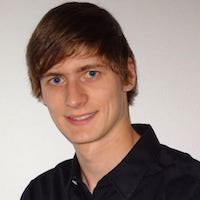
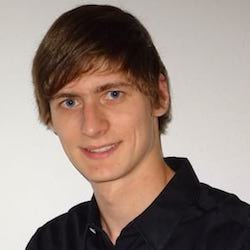
Add woff2 for font-awesome + update profile pic

diff --git a/dist/styles/style.min.css b/dist/styles/style.min.css
@@ -1,1 +1,1 @@
-*{box-sizing:border-box}blockquote,caption,dd,dl,fieldset,form,h1,h2,h3,h4,h5,h6,hr,legend,ol,p,pre,table,td,th,ul{margin:0;padding:0}body{line-height:1.8;color:#fff;font-size:18px;font-family:'Open Sans',sans-serif,Helvetica,sans-serif}h2{font-size:32px}h3{font-size:24px}a{color:#fff;text-decoration:none}a:hover{color:#fff;text-decoration:none}.resume-navbar{border-width:0}.section{width:100%;padding:50px 0;position:relative}.section .section__content{width:100%;margin:50px auto 0 auto}@media (min-width:768px){.section .section__content{width:75%}}@media (min-width:992px){.section .section__content{width:50%}}.section .section__subtitle{margin:30px 0}.section .section__subtitle:first-child{margin-top:0}@media (min-width:768px){.fullscreen-section-sm{height:100vh}}.container-center-total{position:absolute;left:50%;margin-left:-150px;margin-top:-100px;width:300px;height:200px;text-align:center;top:50%}@media (min-width:768px){.container-center-total{position:absolute;left:50%;margin-left:-250px;margin-top:-50px;width:500px;height:100px;text-align:center}}@media (min-width:992px){.container-center-total{position:absolute;left:50%;margin-left:-350px;margin-top:-75px;width:700px;height:150px;text-align:center}}.next-section{position:absolute;left:50%;margin-left:-150px;margin-top:-40px;width:300px;height:80px;text-align:center;bottom:20px;height:auto}.next-section .next-section__link-text{line-height:1;font-size:18px}.resume-item{margin-bottom:0}@media (min-width:768px){.resume-item{margin-bottom:50px}}.resume-item:last-child{margin-bottom:0}.resume-item .resume-item__header{font-size:20px}.resume-item .resume-item__icon{padding-right:5px}.resume-item .resume-item__column{margin-bottom:20px}@media (min-width:768px){.resume-item .resume-item__column{margin-bottom:0}}.resume-item .resume-item__inner-row{margin-top:20px}.focus-list{margin-left:20px;list-style-type:square}.intro-section{height:100vh;background-color:#6ed3cf}#headline{font-size:36px}@media (min-width:768px){#headline{font-size:48px}}@media (min-width:992px){#headline{font-size:72px}}.about-me-section{background-color:#9068be}@media (min-width:768px){.about-me-section{padding-bottom:0;padding-top:0;display:-webkit-flex;display:flex;-webkit-align-items:center;align-items:center;-webkit-justify-content:center;justify-content:center}}.section-intro-text{margin-bottom:50px}.about-me-list{list-style:none;line-height:2;text-align:center;margin-top:50px}@media (min-width:768px){.about-me-list{margin:0}}.about-me-list .about-me-list__account-item{display:inline;font-size:1.3em;padding-right:5px}.profile-picture{border-radius:50%;width:200px;height:200px;border:10px solid #d3d3d3}.education-section{background-color:#22264b}.carreer-section{background-color:#667467}.abilities-section{background-color:#3fb0ac}.projects-section{background-color:#856046}.project-figure{background:#1d2120;position:relative}.project-figure:hover .project-figure__image{opacity:.2}.project-figure:hover .project-figure__caption-header{opacity:1}.project-figure .project-figure__image{max-width:100%;height:auto;-webkit-transition:opacity .5s;transition:opacity .5s}.project-figure .project-figure__caption{position:absolute;top:0;left:0;width:100%;height:100%;padding:10px 10px}.project-figure .project-figure__caption-header{display:flex;height:100%;align-items:center;justify-content:center;opacity:0;-webkit-transition:opacity .5s;transition:opacity .5s}.success-list{list-style-type:none}.spare-time-section{background-color:#e62739}.resume-footer{background-color:#5a5c51;padding:10px 0}.resume-footer .resume-footer__container{width:100%;margin:0 auto}@media (min-width:768px){.resume-footer .resume-footer__container{width:75%}}@media (min-width:992px){.resume-footer .resume-footer__container{width:50%}}.resume-footer-accounts{list-style-type:none;text-align:right}.resume-footer-accounts .resume-footer-accounts__item{display:inline-block;padding-right:5px}.account-item-link{color:#fff}.account-item-link:hover{color:#000}.blog-link{color:#fff;text-decoration:underline}.blog-link:hover{color:#000}.blog-link:visited{color:#fff}@media (min-width:768px){.text-left-sm{text-align:left}.text-right-sm{text-align:right}}
+*{box-sizing:border-box}blockquote,caption,dd,dl,fieldset,form,h1,h2,h3,h4,h5,h6,hr,legend,ol,p,pre,table,td,th,ul{margin:0;padding:0}body{line-height:1.8;color:#fff;font-size:18px;font-family:'Open Sans',sans-serif,Helvetica,sans-serif}h2{font-size:32px}h3{font-size:24px}a{color:#fff;text-decoration:none}a:hover{color:#fff;text-decoration:none}.resume-navbar{border-width:0}.section{width:100%;padding:50px 0;position:relative}.section .section__content{width:100%;margin:50px auto 0 auto}@media (min-width:768px){.section .section__content{width:75%}}@media (min-width:992px){.section .section__content{width:50%}}.section .section__subtitle{margin:30px 0}.section .section__subtitle:first-child{margin-top:0}@media (min-width:768px){.fullscreen-section-sm{height:100vh}}.container-center-total{position:absolute;left:50%;margin-left:-150px;margin-top:-100px;width:300px;height:200px;text-align:center;top:50%}@media (min-width:768px){.container-center-total{position:absolute;left:50%;margin-left:-250px;margin-top:-50px;width:500px;height:100px;text-align:center}}@media (min-width:992px){.container-center-total{position:absolute;left:50%;margin-left:-350px;margin-top:-75px;width:700px;height:150px;text-align:center}}.next-section{position:absolute;left:50%;margin-left:-150px;margin-top:-40px;width:300px;height:80px;text-align:center;bottom:20px;height:auto}.next-section .next-section__link-text{line-height:1;font-size:18px}.resume-item{margin-bottom:0}@media (min-width:768px){.resume-item{margin-bottom:50px}}.resume-item:last-child{margin-bottom:0}.resume-item .resume-item__header{font-size:20px}.resume-item .resume-item__icon{padding-right:5px}.resume-item .resume-item__column{margin-bottom:20px}@media (min-width:768px){.resume-item .resume-item__column{margin-bottom:0}}.resume-item .resume-item__inner-row{margin-top:20px}.focus-list{margin-left:20px;list-style-type:square}.intro-section{height:100vh;background-color:#6ed3cf}#headline{font-size:36px}@media (min-width:768px){#headline{font-size:48px}}@media (min-width:992px){#headline{font-size:72px}}.about-me-section{background-color:#9068be}@media (min-width:768px){.about-me-section{padding-bottom:0;padding-top:0;display:-webkit-flex;display:flex;-webkit-align-items:center;align-items:center;-webkit-justify-content:center;justify-content:center}}.section-intro-text{margin-bottom:50px}.about-me-list{list-style:none;line-height:2;text-align:center;margin-top:50px}@media (min-width:768px){.about-me-list{margin:0}}.about-me-list .about-me-list__account-item{display:inline;font-size:1.3em;padding-right:5px}.profile-picture{border-radius:50%;width:250px;height:250px;border:10px solid #d3d3d3}.education-section{background-color:#22264b}.carreer-section{background-color:#667467}.abilities-section{background-color:#3fb0ac}.projects-section{background-color:#856046}.project-figure{background:#1d2120;position:relative}.project-figure:hover .project-figure__image{opacity:.2}.project-figure:hover .project-figure__caption-header{opacity:1}.project-figure .project-figure__image{max-width:100%;height:auto;-webkit-transition:opacity .5s;transition:opacity .5s}.project-figure .project-figure__caption{position:absolute;top:0;left:0;width:100%;height:100%;padding:10px 10px}.project-figure .project-figure__caption-header{display:flex;height:100%;align-items:center;justify-content:center;opacity:0;-webkit-transition:opacity .5s;transition:opacity .5s}.success-list{list-style-type:none}.spare-time-section{background-color:#e62739}.resume-footer{background-color:#5a5c51;padding:10px 0}.resume-footer .resume-footer__container{width:100%;margin:0 auto}@media (min-width:768px){.resume-footer .resume-footer__container{width:75%}}@media (min-width:992px){.resume-footer .resume-footer__container{width:50%}}.resume-footer-accounts{list-style-type:none;text-align:right}.resume-footer-accounts .resume-footer-accounts__item{display:inline-block;padding-right:5px}.account-item-link{color:#fff}.account-item-link:hover{color:#000}.blog-link{color:#fff;text-decoration:underline}.blog-link:hover{color:#000}.blog-link:visited{color:#fff}@media (min-width:768px){.text-left-sm{text-align:left}.text-right-sm{text-align:right}}

diff --git a/gulpfile.js b/gulpfile.js
@@ -17,6 +17,10 @@ var vendorJS = [
     'node_modules/bootstrap/dist/js/bootstrap.min.js'
 ];
 
+var fonts = [
+    'node_modules/font-awesome/fonts/fontawesome-webfont.woff2'
+];
+
 gulp.task('html', function (){
     // Gets .html and .nunjucks files in pages
     return gulp.src('src/pages/**/*.html')
@@ -85,7 +89,7 @@ gulp.task('webserver', function() {
 });
 
 
-gulp.task('build', gulp.series('clean', gulp.parallel('html', 'js', 'vendorCss', 'vendorJs', 'sass', 'img', 'robots')));
+gulp.task('build', gulp.series('clean', gulp.parallel('html', 'js', 'vendorCss', 'vendorJs', 'sass', 'fonts', 'img', 'robots')));
 gulp.task('run', gulp.series('build', 'webserver'));
 gulp.watch('src/**/*.*', gulp.series('build'));
 

diff --git a/src/styles/components.scss b/src/styles/components.scss
@@ -157,8 +157,8 @@
 
 .profile-picture {
   border-radius: 50%;
-  width: 200px;
-  height: 200px;
+  width: 250px;
+  height: 250px;
   border: 10px solid lightgrey
 }
 
